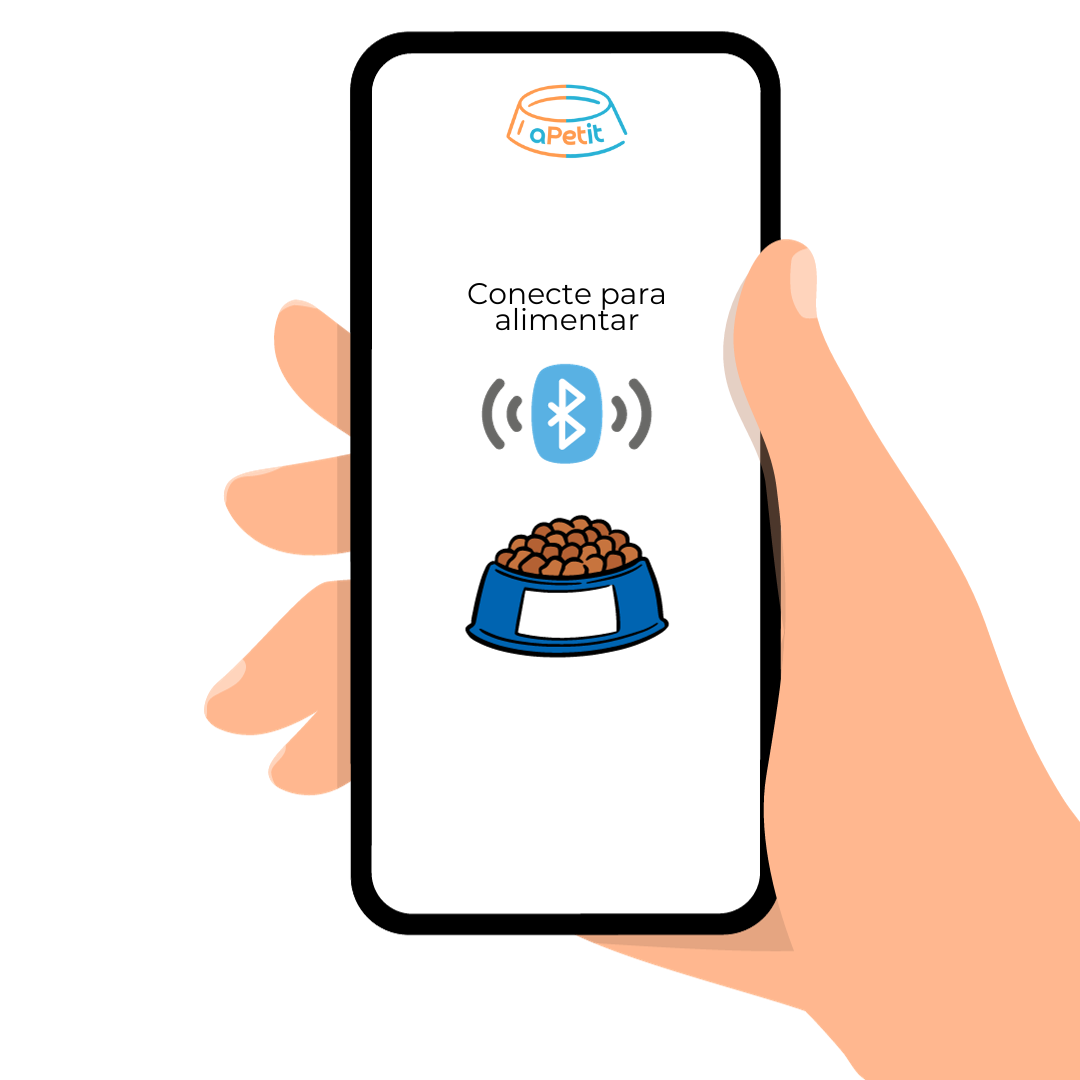
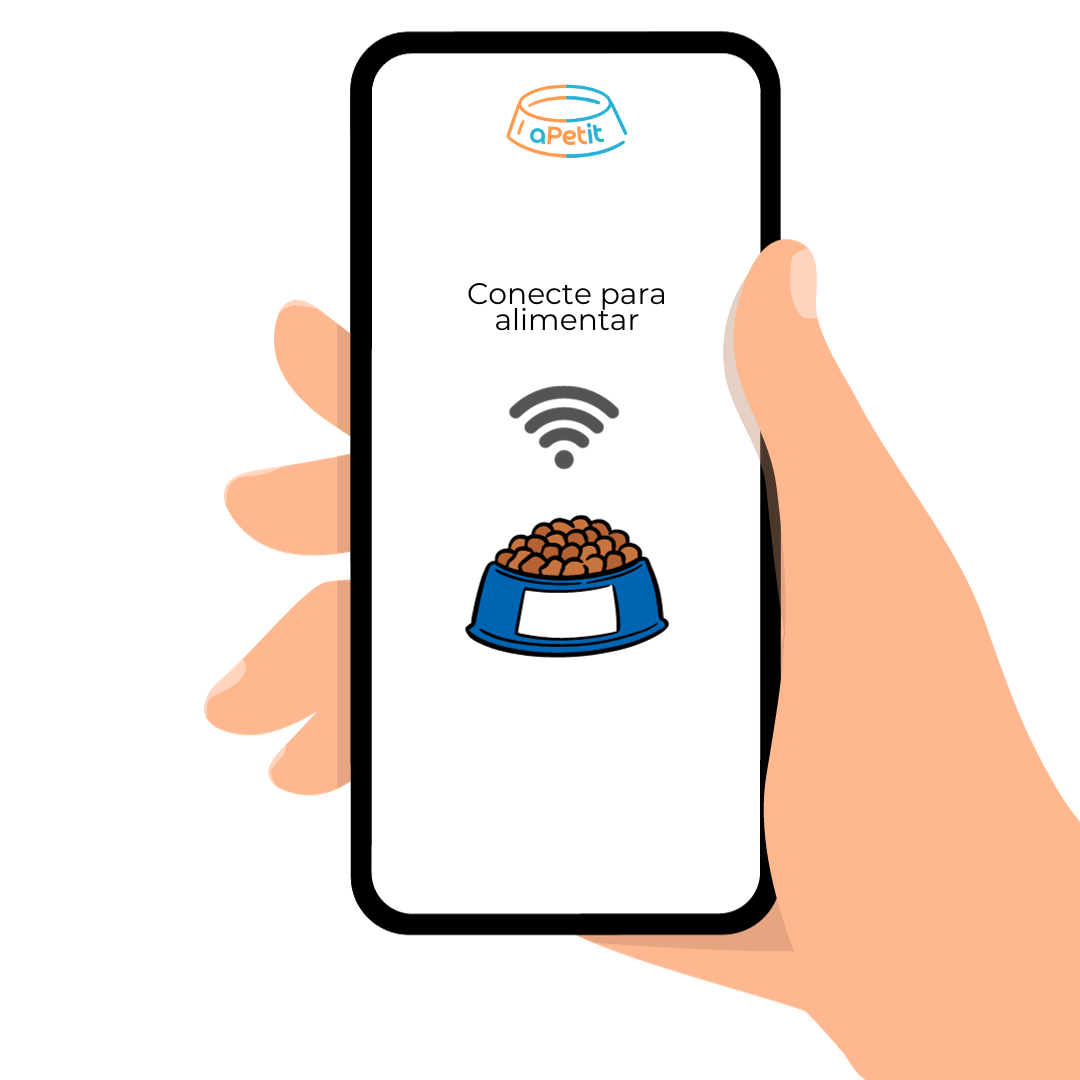
done

Changed region(s): [[0.4278, 0.3361, 0.6111, 0.4278]]

diff --git a/screens/Connection.js b/screens/Connection.js
@@ -1,10 +1,9 @@
 import React, {useState, useEffect} from 'react';
-import { View, StyleSheet, Text, TouchableOpacity, Platform, Dimensions, Image, SafeAreaView, ActivityIndicator } from 'react-native';
+import { View, StyleSheet, Text, TouchableOpacity, Dimensions, Image, SafeAreaView, ActivityIndicator } from 'react-native';
 import { MaterialCommunityIcons } from '@expo/vector-icons';
 import PropsFooter from '../assets/PropsFooter';
 import PropsHeader from '../assets/PropsHeader';
 import { lightTheme, darkTheme } from '../src/theme';
-import { BleManager } from 'react-native-ble-plx';
 import { firebase } from '../src/firebase.config';
 import { getDoc, getFirestore, doc } from 'firebase/firestore';
 import AsyncStorage from '@react-native-async-storage/async-storage';
@@ -13,7 +12,6 @@ export default function Connection({navigation}){
 
     const[isConnected, setIsConnected] = useState(false);
     const[theme, setTheme] = useState(lightTheme);
-    //const _BleManager = new BleManager();
 
     useEffect(()=>{
         loadUserData();
@@ -28,22 +26,52 @@ export default function Connection({navigation}){
         setTheme(data.dark_theme? darkTheme : lightTheme);
     }
 
+    const testConnection = () => {
+        var socket = new WebSocket('ws://192.168.43.10:81');
+        socket.onopen = () => {
+            console.log("Conexão WebSocket aberta");
+            
+            // Envio da mensagem após a conexão ser aberta
+            socket.send("conexao");
+             // Evento chamado quando uma mensagem é recebida
+            socket.onmessage = (event) => {
+                setIsConnected(true);
+            };
+
+            // Evento chamado quando ocorre um erro
+            socket.onerror = (error) => {
+                console.error("Erro WebSocket:", error);
+            };
+
+            // Evento chamado quando a conexão é fechada
+            socket.onclose = (event) => {
+                console.log("Conexão WebSocket fechada:", event);
+            };
+        };
+    }
+    
     return(
         <SafeAreaView style={[styles.container, theme.backgroundColor]}>
             <PropsHeader btnFunc={()=>navigation.navigate('EditProfile')} icon='cog' bgColor={theme.headerColor}/>
 
-            <View style={styles.content}> 
+            <View style={styles.content}>
+                {isConnected && (
+                    <View style={[{borderWidth: 1, borderRadius: 15}, theme.borderColor]}>
+                        <Image source={require('../assets/Images/circuito.png')} style={styles.arduinoImg}/>
+                    </View>
+                )}
                 <View style={styles.status}>
                     <Text style={[styles.statusText, theme.color]}>Status:</Text>
                     <Text style={[styles.statusText, {fontFamily: 'Montserrat-SemiBold'}, theme.color]}>{isConnected? 'On' : 'Off'}</Text>
-
                     <View style={[styles.statusColor, {backgroundColor: isConnected? '#64b500' : 'red'}]}>
                         <MaterialCommunityIcons name={isConnected? 'wifi' : 'wifi-off'} size={21} color='white'/>
                     </View>
                 </View>
+                <TouchableOpacity style={styles.btn} onPress={testConnection}>
+                    <Text style={styles.btnText}>Conectar</Text>
+                </TouchableOpacity>
             </View>
             
-
             <View style={[styles.footer, theme.footerColor]}>
                 <PropsFooter function={()=>navigation.navigate('Home')} iconName='home' txt='Início' iconColor='#28b2d6' fontColor={theme.footerTxtColor}/>
                 <PropsFooter function={()=>navigation.navigate('Alimentation')} iconName='food-drumstick' txt='Alimentar' iconColor='#28b2d6' fontColor={theme.footerTxtColor}/>
@@ -80,7 +108,8 @@ const styles = StyleSheet.create({
         flexDirection: 'row',
         width: 150,
         justifyContent: 'space-between',
-        alignItems: 'center'
+        alignItems: 'center',
+        marginVertical: 20
     },
 
     btnText: {
@@ -101,5 +130,30 @@ const styles = StyleSheet.create({
         borderRadius: 15,
         justifyContent: 'center',
         alignItems: 'center'
+    },
+    btn: {
+        flexDirection: 'row',
+        justifyContent: 'center',
+        alignItems: 'center',
+        backgroundColor: '#ff9b4f',
+        height: 45,
+        width: 220,
+        borderRadius: 7,
+        paddingHorizontal: 10,
+        marginVertical: 20,
+        alignSelf: 'center',
+        marginBottom: 20
+    },
+
+    btnText: {
+        fontFamily: 'Montserrat-SemiBold',
+        fontSize: 18,
+        color: 'white'
+    },
+
+    arduinoImg: {
+        resizeMode: 'stretch',
+        width: 215,
+        height: 288,
     }
 })

diff --git a/screens/EditPet.js b/screens/EditPet.js
@@ -372,7 +372,7 @@ export default function EditPet({navigation}){
                             <Text style={[styles.text, theme.color]}>Validade:</Text>
                         </View>
                         <TouchableOpacity style={[styles.birthdateInput, theme.borderColor]} onPress={()=>setShowExpirationDate(true)}>
-                            <Text style={[styles.birthdateText, theme.color]}>{snackInitialDate.toLocaleDateString().toString()}</Text>
+                            <Text style={[styles.birthdateText, theme.color]}>{snackExpirationDate.toLocaleDateString().toString()}</Text>
                         </TouchableOpacity>
 
                         {showBirthdate && (
